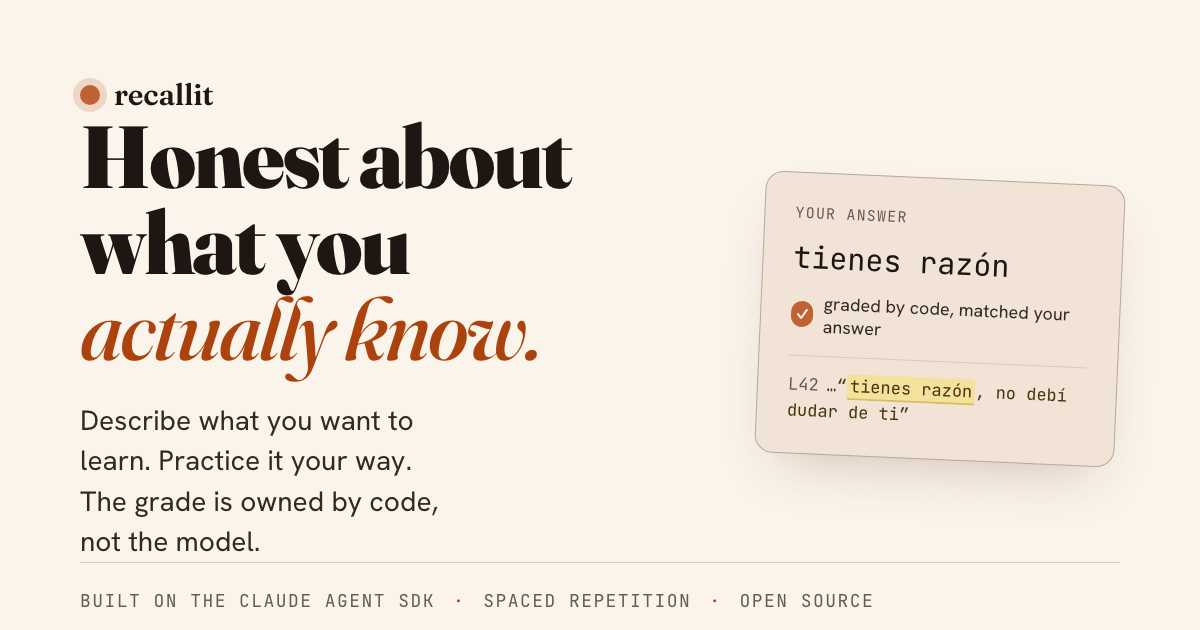
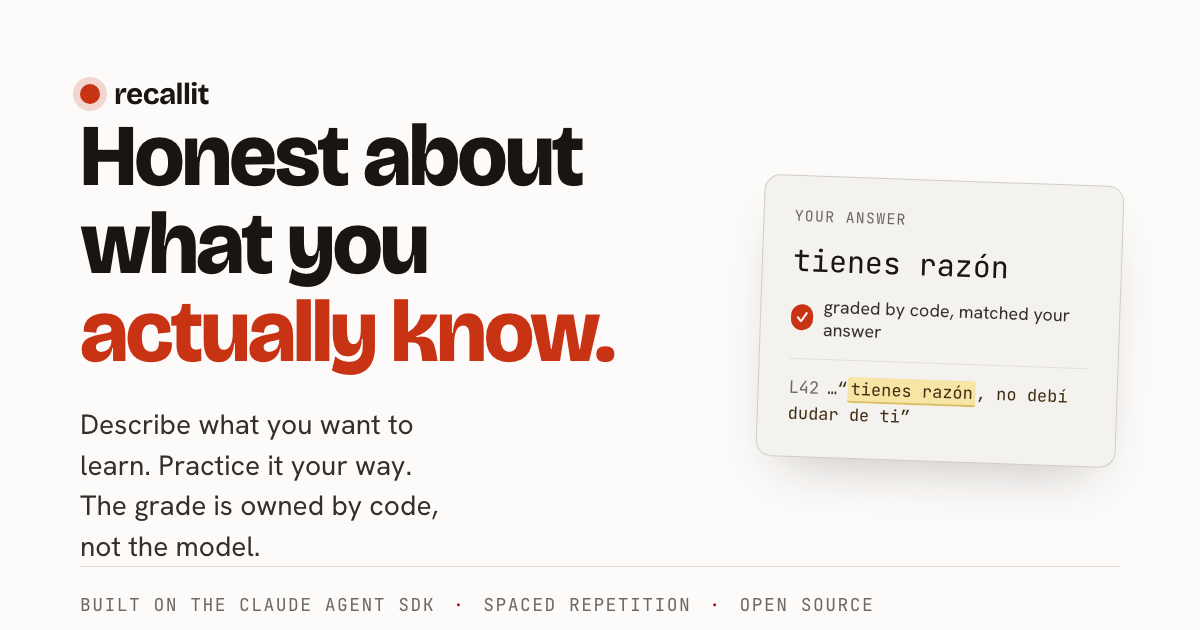
feat(marketing): pivot rebrand to clean light (their aesthetic, our mark)
The warm cream/serif take read as 'our old colors.' Pivot to the reference's
actual clean look: near-white paper, near-black ink, black primary pills,
Bricolage Grotesque (geometric sans) + Hanken Grotesk + JetBrains Mono. Made
ours with ONE vermilion 'mark' accent (kicker, links, the cited-line ✓, the
in-head emphasis word) and the amber cited-line motif kept as the signature.
Reskinned via tokens so demo + pack pages + OG follow. No overflow 390/1280.
DESIGN.md + PRODUCT.md updated to the clean-light system.

diff --git a/marketing/tokens.css b/marketing/tokens.css
@@ -1,40 +1,40 @@
-/* Hallmark · tokens — "Margin" (warm editorial tutor · cream paper · terracotta · the cited line) */
+/* Hallmark · tokens — "Margin" (clean light · near-white paper · ink pills · one vermilion mark) */
 :root {
   /* ── colour (OKLCH) ─────────────────────────────────────────── */
-  /* canvas: warm cream paper, tinted up the stack */
-  --color-paper:      oklch(97.0% 0.014 75);  /* base cream */
-  --color-paper-2:    oklch(94.8% 0.020 72);  /* tinted band */
-  --color-paper-3:    oklch(92.5% 0.024 70);  /* card / hover surface */
-  --color-paper-sunk: oklch(90.0% 0.026 68);  /* inset / well (mockup frames) */
-  /* rules / borders — warm, never gray */
-  --color-rule:       oklch(85% 0.018 72);    /* hairline */
-  --color-rule-2:     oklch(74% 0.022 70);    /* prominent border */
+  /* canvas: near-white, a faint warmth so it isn't sterile (reads white, not cream) */
+  --color-paper:      oklch(99.0% 0.004 80);  /* page */
+  --color-paper-2:    oklch(97.4% 0.005 80);  /* faint band */
+  --color-paper-3:    oklch(96.2% 0.006 80);  /* card / inset surface */
+  --color-paper-sunk: oklch(94.6% 0.006 80);  /* well / mockup frame */
+  /* rules / borders — light grey hairlines */
+  --color-rule:       oklch(90.5% 0.006 80);  /* hairline */
+  --color-rule-2:     oklch(85.0% 0.007 80);  /* prominent border */
   /* ink scale — warm near-black, never #000 */
-  --color-muted:      oklch(48% 0.022 58);    /* small text, ≥4.5:1 on cream */
-  --color-neutral:    oklch(38% 0.020 56);    /* secondary body */
-  --color-ink-2:      oklch(29% 0.018 54);    /* sub-heads */
-  --color-ink:        oklch(21% 0.016 52);    /* headlines / body, warm charcoal */
-  /* on dark surfaces (card backs, code) */
-  --color-on-ink:     oklch(94% 0.016 75);
-  --color-on-ink-2:   oklch(73% 0.016 72);    /* muted-on-dark ≥4.5:1 */
-  --color-accent-on-ink: oklch(74% 0.120 50); /* brightened clay on dark */
-  /* ACCENT: terracotta / clay — action + brand */
-  --color-accent:     oklch(60% 0.135 45);    /* terracotta — primary fill */
-  --color-accent-2:   oklch(52% 0.150 42);    /* deeper, hover */
-  --color-accent-soft: oklch(92% 0.045 50);   /* pale clay tint, one feature tile */
-  --color-accent-ink: oklch(97% 0.014 75);    /* cream text on terracotta fill */
-  --color-focus:      oklch(48% 0.160 45);    /* focus ring, ≥3:1 on cream */
+  --color-muted:      oklch(52% 0.010 70);    /* small text, ≥4.5:1 on white */
+  --color-neutral:    oklch(43% 0.012 65);    /* secondary body */
+  --color-ink-2:      oklch(31% 0.012 60);    /* sub-heads */
+  --color-ink:        oklch(20% 0.010 55);    /* headlines / body + primary pill fill */
+  /* on dark surfaces (code, ink pills) */
+  --color-on-ink:     oklch(97% 0.006 80);
+  --color-on-ink-2:   oklch(74% 0.008 80);    /* muted-on-dark ≥4.5:1 */
+  --color-accent-on-ink: oklch(74% 0.150 36); /* brightened vermilion on dark */
+  /* ACCENT: vermilion — the honest mark. Used sparingly (kicker, links, the ✓, brand dot). */
+  --color-accent:     oklch(55% 0.190 33);    /* vermilion */
+  --color-accent-2:   oklch(48% 0.200 32);    /* deeper, hover / small text */
+  --color-accent-soft: oklch(94% 0.040 38);   /* pale red wash */
+  --color-accent-ink: oklch(99% 0.004 80);    /* white text on a vermilion fill */
+  --color-focus:      oklch(50% 0.190 33);    /* focus ring, ≥3:1 on white */
   /* the cited line — the signature motif (amber highlighter on verbatim source) */
-  --color-cite-wash:  oklch(91% 0.090 95);    /* warm amber marker swipe */
-  --color-cite-edge:  oklch(80% 0.110 92);    /* underline / left margin-mark */
-  --color-cite-ink:   oklch(34% 0.060 75);    /* the quoted text on the wash */
+  --color-cite-wash:  oklch(92% 0.085 95);    /* warm amber marker swipe */
+  --color-cite-edge:  oklch(80% 0.110 92);    /* underline */
+  --color-cite-ink:   oklch(32% 0.050 72);    /* the quoted text on the wash */
 
   /* ── type ───────────────────────────────────────────────────── */
-  --font-display: "Fraunces", ui-serif, Georgia, "Times New Roman", serif;
+  --font-display: "Bricolage Grotesque", ui-sans-serif, system-ui, sans-serif;
   --font-body:    "Hanken Grotesk", ui-sans-serif, system-ui, sans-serif;
-  --font-serif:   "Fraunces", ui-serif, Georgia, serif;  /* italic asides */
+  --font-serif:   "Hanken Grotesk", ui-sans-serif, sans-serif;  /* colored emphasis, not italic */
   --font-mono:    "JetBrains Mono", ui-monospace, "SF Mono", Menlo, monospace;
-  --display-weight: 900;
+  --display-weight: 700;
 
   --text-xs:   0.75rem;
   --text-sm:   0.875rem;
@@ -44,16 +44,16 @@
   --text-xl:   1.75rem;
   --text-2xl:  2.25rem;
   --text-3xl:  2.75rem;
-  --text-display:   clamp(3rem, 6vw + 0.5rem, 5.5rem);
+  --text-display:   clamp(2.75rem, 5.5vw + 0.5rem, 5rem);
   --text-display-s: clamp(2rem, 3vw + 0.5rem, 3rem);
 
-  --lh-tight:   1.0;
+  --lh-tight:   1.02;
   --lh-snug:    1.12;
   --lh-normal:  1.5;
   --lh-relaxed: 1.6;
-  --tracking-display: -0.02em;
-  --tracking-tight:   -0.012em;
-  --tracking-label:    0.14em;
+  --tracking-display: -0.025em;
+  --tracking-tight:   -0.015em;
+  --tracking-label:    0.10em;
 
   /* ── space (4 pt scale) ─────────────────────────────────────── */
   --space-3xs: 0.125rem;
@@ -71,17 +71,17 @@
   --page-max:    76rem;
   --page-gutter: clamp(1.25rem, 4vw, 3rem);
   --measure:     60ch;
-  --rule-hair:   0.5px;
+  --rule-hair:   1px;
   --rule-fine:   1px;
 
   /* ── shape ──────────────────────────────────────────────────── */
-  --radius-card:  18px;
+  --radius-card:  16px;
   --radius-pill:  999px;
   --radius-input: 12px;
   --radius-chip:  8px;
   --rule-card:    1px;
-  --shadow-card:  0 8px 24px -14px oklch(40% 0.06 50 / 0.18);
-  --shadow-lift:  0 18px 40px -18px oklch(40% 0.06 50 / 0.24);
+  --shadow-card:  0 1px 3px oklch(20% 0.01 60 / 0.10), 0 10px 30px -18px oklch(20% 0.01 60 / 0.12);
+  --shadow-lift:  0 2px 6px oklch(20% 0.01 60 / 0.10), 0 20px 44px -22px oklch(20% 0.01 60 / 0.18);
 
   /* ── motion ─────────────────────────────────────────────────── */
   --ease-out:    cubic-bezier(0.16, 1, 0.3, 1);

diff --git a/marketing/og-card.html b/marketing/og-card.html
@@ -6,24 +6,24 @@
     <link rel="preconnect" href="https://fonts.googleapis.com" />
     <link rel="preconnect" href="https://fonts.gstatic.com" crossorigin />
     <link
-      href="https://fonts.googleapis.com/css2?family=Fraunces:ital,opsz,wght@0,9..144,400..900;1,9..144,400..900&family=Hanken+Grotesk:wght@400;500;600;700&family=JetBrains+Mono:wght@400;500&display=swap"
+      href="https://fonts.googleapis.com/css2?family=Bricolage+Grotesque:opsz,wght@12..96,400..800&family=Hanken+Grotesk:wght@400;500;600;700&family=JetBrains+Mono:wght@400;500&display=swap"
       rel="stylesheet"
     />
     <style>
       :root {
-        --paper: oklch(97.0% 0.014 75);
-        --paper-3: oklch(92.5% 0.024 70);
-        --rule: oklch(85% 0.018 72);
-        --rule-2: oklch(74% 0.022 70);
-        --muted: oklch(48% 0.022 58);
-        --ink-2: oklch(29% 0.018 54);
-        --ink: oklch(21% 0.016 52);
-        --accent: oklch(60% 0.135 45);
-        --accent-2: oklch(52% 0.150 42);
-        --accent-ink: oklch(97% 0.014 75);
-        --cite-wash: oklch(91% 0.090 95);
+        --paper: oklch(99.0% 0.004 80);
+        --paper-3: oklch(96.2% 0.006 80);
+        --rule: oklch(90.5% 0.006 80);
+        --rule-2: oklch(85.0% 0.007 80);
+        --muted: oklch(52% 0.010 70);
+        --ink-2: oklch(31% 0.012 60);
+        --ink: oklch(20% 0.010 55);
+        --accent: oklch(55% 0.190 33);
+        --accent-2: oklch(48% 0.200 32);
+        --accent-ink: oklch(99% 0.004 80);
+        --cite-wash: oklch(92% 0.085 95);
         --cite-edge: oklch(80% 0.110 92);
-        --cite-ink: oklch(34% 0.060 75);
+        --cite-ink: oklch(32% 0.050 72);
       }
       * { box-sizing: border-box; margin: 0; }
       html, body { width: 1200px; height: 630px; }
@@ -42,19 +42,19 @@
       .brand {
         grid-column: 1 / 2;
         display: inline-flex; align-items: center; gap: 14px;
-        font-family: "Fraunces", serif; font-weight: 600; font-size: 30px; letter-spacing: -0.01em;
+        font-family: "Bricolage Grotesque", sans-serif; font-weight: 700; font-size: 30px; letter-spacing: -0.02em;
       }
       .brand .dot {
         width: 20px; height: 20px; border-radius: 999px;
         background: var(--accent);
-        box-shadow: 0 0 0 7px color-mix(in oklab, var(--accent) 20%, transparent);
+        box-shadow: 0 0 0 7px color-mix(in oklab, var(--accent) 18%, transparent);
       }
       .copy { grid-column: 1 / 2; grid-row: 2 / 3; align-self: center; }
       h1 {
-        font-family: "Fraunces", serif; font-weight: 900; font-size: 88px; line-height: 0.98;
-        letter-spacing: -0.025em; max-width: 12ch;
+        font-family: "Bricolage Grotesque", sans-serif; font-weight: 800; font-size: 88px; line-height: 1.0;
+        letter-spacing: -0.03em; max-width: 12ch;
       }
-      h1 em { font-style: italic; font-weight: 500; color: var(--accent-2); }
+      h1 em { font-style: normal; color: var(--accent); }
       .sub {
         margin-top: 28px; font-size: 28px; line-height: 1.45;
         color: var(--ink-2); max-width: 24ch;
@@ -73,9 +73,9 @@
         width: 360px;
         background: var(--paper-3); color: var(--ink);
         border: 1px solid var(--rule-2);
-        border-radius: 18px; padding: 30px;
-        box-shadow: 0 26px 56px -24px oklch(40% 0.06 50 / 0.30);
-        transform: rotate(2.5deg);
+        border-radius: 16px; padding: 30px;
+        box-shadow: 0 26px 56px -26px oklch(20% 0.01 60 / 0.28);
+        transform: rotate(2deg);
         display: flex; flex-direction: column; gap: 14px;
       }
       .card .tag {

diff --git a/marketing/styles.css b/marketing/styles.css
@@ -108,12 +108,12 @@ a { color: inherit; }
               border-color var(--dur-short) var(--ease-out),
               color var(--dur-short) var(--ease-out);
 }
-.btn--primary { --_bg: var(--color-accent); --_fg: var(--color-ink); --_bd: transparent; }
+.btn--primary { --_bg: var(--color-ink); --_fg: var(--color-paper); --_bd: transparent; }
 .btn--ghost { background: var(--color-paper); }
 .btn:active { transform: translateY(1px); }
 .btn:focus-visible { outline: 2px solid var(--color-focus); outline-offset: 2px; }
 @media (hover: hover) {
-  .btn--primary:hover { --_bg: var(--color-accent-2); --_fg: var(--color-paper); }
+  .btn--primary:hover { --_bg: var(--color-ink-2); --_fg: var(--color-paper); }
   .btn--ghost:hover { --_bd: var(--color-ink); background: var(--color-paper-2); }
 }
 
@@ -139,7 +139,7 @@ a { color: inherit; }
   line-height: var(--lh-tight);
   max-width: 15ch;
 }
-.hero h1 em { font-family: var(--font-serif); font-style: italic; font-weight: 500; color: var(--color-accent-2); }
+.hero h1 em { font-style: normal; color: var(--color-accent); }
 .hero__lede { max-width: 44ch; font-size: var(--text-md); color: var(--color-ink-2); line-height: var(--lh-relaxed); }
 .hero__cta { display: flex; flex-wrap: wrap; gap: var(--space-sm); margin-top: var(--space-2xs); }
 .hero__note { font-size: var(--text-sm); color: var(--color-muted); }
@@ -404,7 +404,7 @@ a { color: inherit; }
   font-size: var(--text-3xl); letter-spacing: var(--tracking-display);
   line-height: var(--lh-snug); max-width: 20ch;
 }
-.foot__statement em { font-family: var(--font-serif); font-style: italic; font-weight: 500; color: var(--color-accent-2); }
+.foot__statement em { font-style: normal; color: var(--color-accent); }
 .foot__meta {
   margin-top: var(--space-xl); padding-top: var(--space-lg);
   border-top: var(--rule-hair) solid var(--color-rule);

diff --git a/marketing/demo/index.html b/marketing/demo/index.html
@@ -12,7 +12,7 @@
     <link rel="preconnect" href="https://fonts.googleapis.com" />
     <link rel="preconnect" href="https://fonts.gstatic.com" crossorigin />
     <link
-      href="https://fonts.googleapis.com/css2?family=Fraunces:ital,opsz,wght@0,9..144,400..900;1,9..144,400..900&family=Hanken+Grotesk:wght@400;500;600;700&family=JetBrains+Mono:wght@400;500&display=swap"
+      href="https://fonts.googleapis.com/css2?family=Bricolage+Grotesque:opsz,wght@12..96,400..800&family=Hanken+Grotesk:wght@400;500;600;700&family=JetBrains+Mono:wght@400;500&display=swap"
       rel="stylesheet"
     />
     <link rel="stylesheet" href="../tokens.css" />

diff --git a/marketing/index.html b/marketing/index.html
@@ -28,7 +28,7 @@
     <link rel="preconnect" href="https://fonts.googleapis.com" />
     <link rel="preconnect" href="https://fonts.gstatic.com" crossorigin />
     <link
-      href="https://fonts.googleapis.com/css2?family=Fraunces:ital,opsz,wght@0,9..144,400..900;1,9..144,400..900&family=Hanken+Grotesk:wght@400;500;600;700&family=JetBrains+Mono:wght@400;500&display=swap"
+      href="https://fonts.googleapis.com/css2?family=Bricolage+Grotesque:opsz,wght@12..96,400..800&family=Hanken+Grotesk:wght@400;500;600;700&family=JetBrains+Mono:wght@400;500&display=swap"
       rel="stylesheet"
     />
     <link rel="stylesheet" href="tokens.css" />

diff --git a/marketing/packs/architecture.html b/marketing/packs/architecture.html
@@ -8,7 +8,7 @@
     <link rel="icon" href="../favicon.svg" type="image/svg+xml" />
     <link rel="preconnect" href="https://fonts.googleapis.com" />
     <link rel="preconnect" href="https://fonts.gstatic.com" crossorigin />
-    <link href="https://fonts.googleapis.com/css2?family=Fraunces:ital,opsz,wght@0,9..144,400..900;1,9..144,400..900&family=Hanken+Grotesk:wght@400;500;600;700&family=JetBrains+Mono:wght@400;500&display=swap" rel="stylesheet" />
+    <link href="https://fonts.googleapis.com/css2?family=Bricolage+Grotesque:opsz,wght@12..96,400..800&family=Hanken+Grotesk:wght@400;500;600;700&family=JetBrains+Mono:wght@400;500&display=swap" rel="stylesheet" />
     <link rel="stylesheet" href="../tokens.css" />
     <link rel="stylesheet" href="../styles.css" />
     <link rel="stylesheet" href="pack.css" />

diff --git a/marketing/packs/index.html b/marketing/packs/index.html
@@ -8,7 +8,7 @@
     <link rel="icon" href="../favicon.svg" type="image/svg+xml" />
     <link rel="preconnect" href="https://fonts.googleapis.com" />
     <link rel="preconnect" href="https://fonts.gstatic.com" crossorigin />
-    <link href="https://fonts.googleapis.com/css2?family=Fraunces:ital,opsz,wght@0,9..144,400..900;1,9..144,400..900&family=Hanken+Grotesk:wght@400;500;600;700&family=JetBrains+Mono:wght@400;500&display=swap" rel="stylesheet" />
+    <link href="https://fonts.googleapis.com/css2?family=Bricolage+Grotesque:opsz,wght@12..96,400..800&family=Hanken+Grotesk:wght@400;500;600;700&family=JetBrains+Mono:wght@400;500&display=swap" rel="stylesheet" />
     <link rel="stylesheet" href="../tokens.css" />
     <link rel="stylesheet" href="../styles.css" />
     <link rel="stylesheet" href="pack.css" />

diff --git a/marketing/packs/spanish-mx-rgv.html b/marketing/packs/spanish-mx-rgv.html
@@ -8,7 +8,7 @@
     <link rel="icon" href="../favicon.svg" type="image/svg+xml" />
     <link rel="preconnect" href="https://fonts.googleapis.com" />
     <link rel="preconnect" href="https://fonts.gstatic.com" crossorigin />
-    <link href="https://fonts.googleapis.com/css2?family=Fraunces:ital,opsz,wght@0,9..144,400..900;1,9..144,400..900&family=Hanken+Grotesk:wght@400;500;600;700&family=JetBrains+Mono:wght@400;500&display=swap" rel="stylesheet" />
+    <link href="https://fonts.googleapis.com/css2?family=Bricolage+Grotesque:opsz,wght@12..96,400..800&family=Hanken+Grotesk:wght@400;500;600;700&family=JetBrains+Mono:wght@400;500&display=swap" rel="stylesheet" />
     <link rel="stylesheet" href="../tokens.css" />
     <link rel="stylesheet" href="../styles.css" />
     <link rel="stylesheet" href="pack.css" />

diff --git a/marketing/scripts/build-pack-pages.ts b/marketing/scripts/build-pack-pages.ts
@@ -39,7 +39,7 @@ function head(title: string, desc: string, cssDepth: string): string {
     <link rel="icon" href="${cssDepth}favicon.svg" type="image/svg+xml" />
     <link rel="preconnect" href="https://fonts.googleapis.com" />
     <link rel="preconnect" href="https://fonts.gstatic.com" crossorigin />
-    <link href="https://fonts.googleapis.com/css2?family=Fraunces:ital,opsz,wght@0,9..144,400..900;1,9..144,400..900&family=Hanken+Grotesk:wght@400;500;600;700&family=JetBrains+Mono:wght@400;500&display=swap" rel="stylesheet" />
+    <link href="https://fonts.googleapis.com/css2?family=Bricolage+Grotesque:opsz,wght@12..96,400..800&family=Hanken+Grotesk:wght@400;500;600;700&family=JetBrains+Mono:wght@400;500&display=swap" rel="stylesheet" />
     <link rel="stylesheet" href="${cssDepth}tokens.css" />
     <link rel="stylesheet" href="${cssDepth}styles.css" />
     <link rel="stylesheet" href="pack.css" />

diff --git a/DESIGN.md b/DESIGN.md
@@ -1,42 +1,43 @@
-# recallit — Design system ("Margin": warm editorial tutor)
+# recallit — Design system ("Margin": clean light tutor)
 
-A warm reading-room for the web: cream paper, a confident soft-serif voice, and one act of honesty made visible (the highlighted, cited source line). Inspired by friendly-minimal learning tools but unmistakably warm and literary, the anti-flashy-SaaS. Source of truth for values: `marketing/tokens.css`; components: `marketing/styles.css`.
+A clean, light study tool: near-white paper, a bold geometric sans, near-black ink, and one vermilion **mark** that means "this was checked." It borrows the clarity of a modern friendly-minimal learning tool (light canvas, big confident type, pill buttons, soft cards) and makes it ours through a single confident accent and the cited-line motif, never rainbow delight or cartoon mascots. Source of truth for values: `marketing/tokens.css`; components: `marketing/styles.css`.
 
 ## Color (OKLCH)
-Strategy: **warm-neutral canvas + one earned accent.** The whole surface is cream/ink. Color appears in exactly two places: the **terracotta** accent (action + brand) and the **amber highlighter** (only ever behind a cited source line). Grades are NOT colored red/green; honest means calm, not a traffic light. Never `#000`/`#fff`; every neutral carries warm hue 52–75.
+Strategy: **near-white canvas + near-black ink + one rationed vermilion mark.** The surface is white/grey/ink (clean, lots of air). Color appears only as the vermilion accent, used sparingly: kicker labels, the brand dot, links, the cited-line ✓, the in-head emphasis word. Primary buttons are **near-black** (not the accent). The amber highlighter is reserved for the cited source span. Grades are not a red/green traffic light; the accent is the brand mark, not a status color. Never `#000`/`#fff`; neutrals carry a faint warm hue (55–80).
 
-- Paper: `oklch(97% 0.014 75)` → `94.8% 0.020 72` → `92.5% 0.024 70` (card) → `90% 0.026 68` (well)
-- Rules: `oklch(85% 0.018 72)` hairline, `74% 0.022 70` prominent
-- Ink: `oklch(21% 0.016 52)` head/body → `29%` sub → `38%` secondary → `48% 0.022 58` muted (≥4.5:1 on cream)
-- Accent (terracotta): `oklch(60% 0.135 45)` fill, `52% 0.150 42` hover, `92% 0.045 50` soft tint, `97% 0.014 75` text-on-fill, `48% 0.160 45` focus
-- Cited line (amber): `--color-cite-wash 91% 0.090 95`, `--color-cite-edge 80% 0.110 92` (underline), `--color-cite-ink 34% 0.060 75`
-- On dark (code/term): `94% 0.016 75` text, `73% 0.016 72` muted, `74% 0.120 50` accent-on-dark
+- Paper: `oklch(99% 0.004 80)` page → `97.4%` band → `96.2% 0.006 80` card → `94.6%` well
+- Rules: `oklch(90.5% 0.006 80)` hairline (1px), `85% 0.007 80` prominent
+- Ink: `oklch(20% 0.010 55)` head/body + primary-pill fill → `31%` sub → `43%` secondary → `52% 0.010 70` muted (≥4.5:1 on white)
+- Accent (vermilion, the mark): `oklch(55% 0.190 33)`, `48% 0.200 32` deeper/small-text, `94% 0.040 38` soft wash, `99% 0.004 80` text-on-fill, `50% 0.190 33` focus
+- Cited line (amber): `--color-cite-wash 92% 0.085 95`, `--color-cite-edge 80% 0.110 92` underline, `--color-cite-ink 32% 0.050 72`
+- On dark (code/term, ink pills): `97% 0.006 80` text, `74% 0.008 80` muted, `74% 0.150 36` accent-on-dark
 
 ## Typography
-- **Display: Fraunces** (variable serif, `opsz` auto). Heads at weight **900**, tracking `-0.02em`, line-height ~1.0. Italic Fraunces (weight 500, terracotta) for the in-copy aside, the memorable clause. This soft-serif voice is the single strongest signal that this is the literary, honest-tutor brand, not another geometric-sans AI tool.
+- **Display: Bricolage Grotesque** (variable, `opsz` auto), the bold friendly-geometric voice. Heads at weight **700**, tracking `-0.025em`, line-height ~1.0. The in-copy emphasis (`em`, the memorable clause) is set in the **vermilion accent**, normal style, not italic. This is the friendly-modern feel of the reference, in a distinct face.
 - **Body/UI: Hanken Grotesk** (humanist grotesk, warm, open). Body 400 at 1.125rem/1.6; labels 500–600.
-- **Mono: JetBrains Mono** for cited source lines, the receipt, CLI snippets, kicker labels. Mono = "this is the verbatim, unedited source", reinforcing the wedge.
-- Hierarchy is scale + weight contrast (900 display vs 400 body) plus serif/grotesk and roman/italic contrast. Never gradient text. Body measure ≤ 60ch.
+- **Mono: JetBrains Mono** for cited source lines, the receipt, CLI snippets, kicker labels. Mono = "this is the verbatim, unedited source," reinforcing the wedge.
+- Hierarchy is scale + weight + the bold geometric display vs clean grotesk body. Never gradient text. Body measure ≤ 60ch.
 
 ## Shape & depth
-- Radii: cards `18px`, inputs `12px`, chips `8px`, pills `999px`. Pills for CTAs, kickers, nav chips; cards are rounded-rect.
-- Borders: warm `1px` hairlines; sections separated by full-width rules (never a colored left/side stripe).
-- Shadows: soft, warm-tinted, low (`0 8px 24px -14px oklch(40% 0.06 50 / 0.18)`); cards lift slightly on hover. No glassmorphism.
+- Radii: cards `16px`, inputs `12px`, chips `8px`, pills `999px`. Pills for CTAs, kickers, nav chips; cards are rounded-rect.
+- Buttons: **primary = near-black pill** (ink fill / paper text), **ghost = white pill** (ink, hairline border), echoing the reference's clean black-pill system.
+- Borders: light `1px` hairlines; sections separated by full-width rules (never a colored side stripe).
+- Shadows: shallow and clean (`0 1px 3px / 0.10` + a soft long lift), borders carry the structure, not heavy elevation. No glassmorphism.
 
 ## Signature motif: "the cited line"
-The delight is quiet, earned, and load-bearing, it IS the wedge. A card shows your answer, then beneath it the verbatim source line in mono, with the matched span wrapped in `<mark>`: an **amber highlighter wash** (`--color-cite-wash`) with a 2px `--color-cite-edge` underline, drawn with `box-decoration-break: clone`. On scroll-into-view the wash **swipes in left→right** (~420ms `--ease-out`, via `background-size 0%→100%`), like a pen stroke; a small terracotta **✓** receipt reads "graded by code, matched your answer." `prefers-reduced-motion` shows it filled, no animation. Reusable anywhere a claim needs backing (hero `.cite`, the `qchip`, card mockups). Optional restrained spot art: single-weight ink line-drawings (book, highlighter, margin bracket), never mascots, never color.
+The delight is quiet, earned, and load-bearing, it IS the wedge (this is what makes it ours, not the reference's rainbow). A card shows your answer, then the verbatim source line in mono with the matched span wrapped in `<mark>`: an **amber highlighter wash** (`--color-cite-wash`) + 2px `--color-cite-edge` underline, `box-decoration-break: clone`. On scroll-into-view the wash **swipes in left→right** (~420ms `--ease-out`, `background-size 0%→100%`); a small **vermilion ✓** receipt reads "graded by code, matched your answer." `prefers-reduced-motion` shows it filled. Reusable wherever a claim needs backing (hero `.cite`, the `qchip`, card mockups).
 
 ## Components (`marketing/styles.css`)
-- `.btn--primary` terracotta pill / cream text; `.btn--ghost` ink outline on cream. 44px min target, focus ring.
+- `.btn--primary` near-black pill / paper text; `.btn--ghost` ink outline on white. 44px min target, focus ring.
 - `.cite` the signature card (hero visual). `.qchip` the source-quote proof. `.term` recorded-run terminal (ink panel, mono).
 - `.loop` numbered three-verb steps; `.cards`/`.card` trust pillars (label → head → sentence, NOT identical-icon grid); `.mini` subject chips; `.trust` quiet mono credibility row.
-- Kicker pattern: mono uppercase label (`--tracking-label 0.14em`) → Fraunces head → Hanken sub.
+- Kicker pattern: mono uppercase label (`--tracking-label 0.10em`) → Bricolage head → Hanken sub.
 
 ## Motion
 `--ease-out: cubic-bezier(0.16,1,0.3,1)`; one-shot reveal-on-scroll (`.reveal`→`.in`); the cited-line swipe. Never animate layout properties; always honor `prefers-reduced-motion`.
 
 ## Bans honored
-No gradient text, no side-stripe borders (sections use full rules + the semantic top-rule on cited blocks), no default glassmorphism, no hero-metric stat row (the hero proof is the live cited card), no identical card grids (pillars vary by content, examples are subject chips), never `#000`/`#fff`.
+No gradient text, no side-stripe borders (sections use full rules + the semantic top-rule on cited blocks), no default glassmorphism, no hero-metric stat row (the hero proof is the live cited card), no identical card grids, no rainbow edge, no mascots, never `#000`/`#fff`.
 
 ## Responsive / a11y
 Hero is 2-col (1.1fr/0.9fr) collapsing to 1-col; verified no overflow at 390px and 1280px. Tabular figures where numbers change; 44px tap targets; visible focus rings; contrast ≥4.5:1 body / ≥3:1 large.

diff --git a/PRODUCT.md b/PRODUCT.md
@@ -22,7 +22,7 @@ An honest, source-grounded tutor. You describe what you want to learn, recallit 
 - Confident but never hype. Show receipts, not adjectives.
 
 ## Anti-references
-- The friendly-but-generic white-minimal AI study tool (pdftolesson.com): white canvas, rainbow-gradient delight, cartoon mascots, pill-on-everything. We borrow its warmth and clarity, never its look.
+- The friendly-but-generic white-minimal AI study tool (pdftolesson.com): we adopt its clean, light, geometric clarity (near-white, bold sans, black pills, soft cards) and make it ours with a single vermilion "mark" accent and the cited-line motif. We reject its rainbow-gradient delight and cartoon mascots.
 - Generic SaaS slop: purple gradients on white, Inter/Roboto, the hero-metric stat row, identical icon-card grids.
 - Flashcard apps that gamify and flatter (gold stars, streaks-as-dopamine). Our "delight" is a *receipt*, the proof of an honest grade.
 